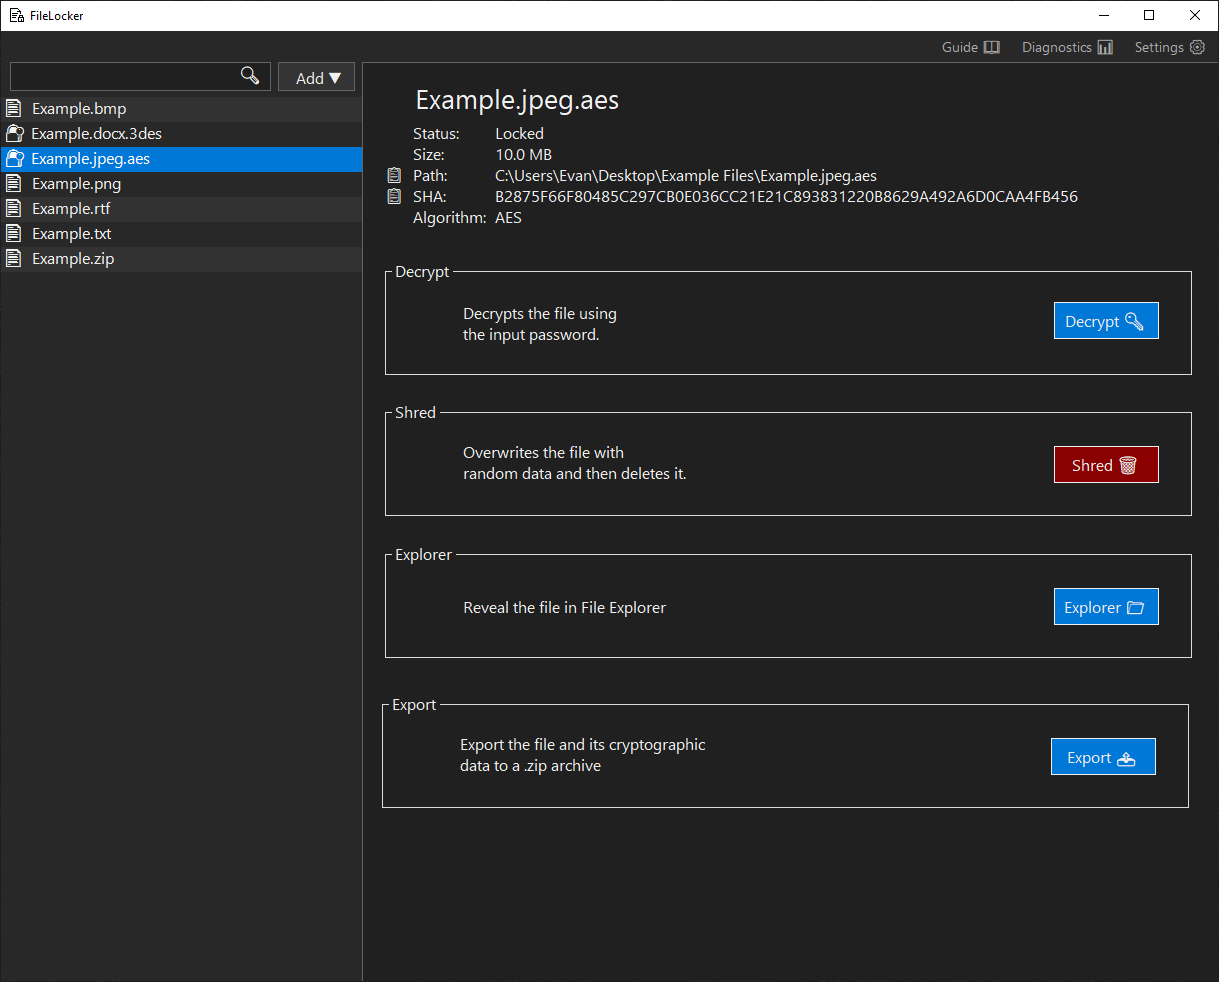
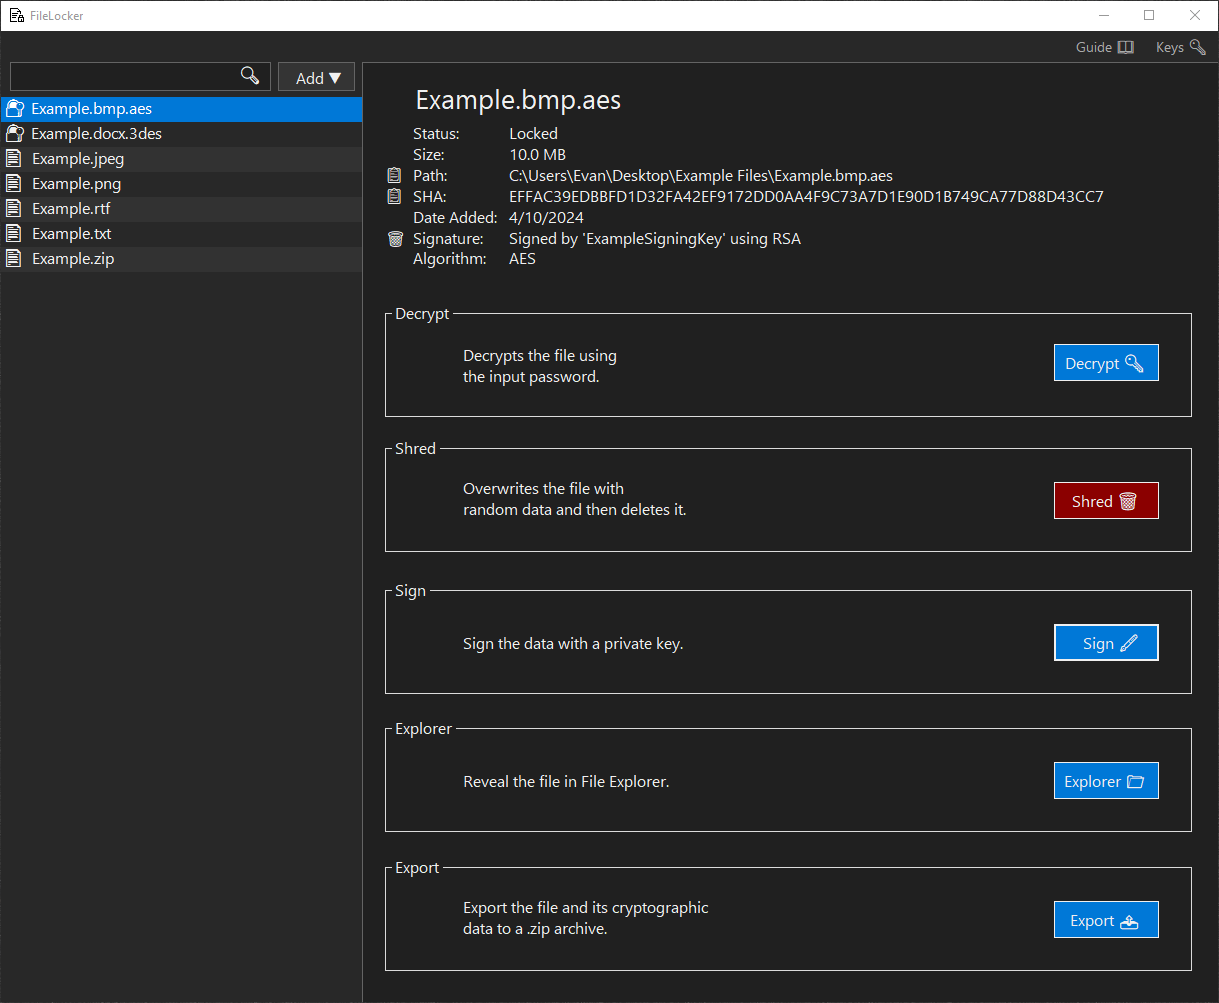
Updated README
README now includes updated images and descriptions.

diff --git a/README.md b/README.md
@@ -1,6 +1,6 @@
 # FileLocker
 
-A Windows desktop app to protect files in rest or in transit using cryptographic techniques and cybersecurity best practices.
+A Windows desktop app for cryptographically protecting files.
 
 ## Table of Contents
 
@@ -30,14 +30,14 @@ A Windows desktop app to protect files in rest or in transit using cryptographic
 The Dashboard Form also displays files within FileLocker's scope and allows addition and navigation of files.
 
 - **Guide 📖**: opens the GitHub repository in the default browser.
-- **Diagnostics 📊**: _Coming Soon_
-- **Settings ⚙**: _Coming Soon_
 - **Add ▼**: shows dropdown options to add files to the scope by manually selecting or importing an archive.
 - **File List**: right click on a file to display options or drag and drop files onto the list to add them.
 - **Search Bar**: filters files based on the search query.
 
 > [!TIP]
 > Filter by file type by searching `.txt` or `.png`, or filter by algorithm by searching `.aes` or `.3des`.
+
+<img src="./images/DashboardForm_NoFilesPanel.png" alt="Dashboard Form with Locked File Selected" width="1000">
 
 </details>
 
@@ -47,7 +47,7 @@ A locked file can be decrypted, shredded, shown in File Explorer, or exported.
 
 - **📋 Path**: copies the path to the clipboard.
 - **📋 SHA**: copies the SHA to the clipboard.
-- **Decrypt 🔑**: opens the [**Decrypt Form**](#decrypt-form).
+- **Decrypt 🔑**: opens the Decrypt Form.
 - **Shred 🗑**: shreds the file by overwriting its contents with random data and then deleting.
 - **Explorer 📁**: launches File Explorer with the file selected.
 - **Export 📤**: exports the file to a .zip archive.
@@ -62,7 +62,7 @@ An unlocked file can be encrypted, shredded, or shown in File Explorer.
 
 - **📋 Path**: copies the path to the clipboard.
 - **📋 SHA**: copies the SHA to the clipboard.
-- **Encrypt 🔐**: opens the [**Encrypt Form**](#encrypt-form).
+- **Encrypt 🔐**: opens the Encrypt Form.
 - **Shred 🗑**: shreds the file by overwriting its contents with random data and then deleting.
 - **Explorer 📁**: launches File Explorer with the file selected.
 
@@ -79,6 +79,17 @@ An moved or deleted file can be relocated or removed from scope.
 <img src="./images/DashboardForm_RelocationPanel.png" alt="Dashboard Form with Unlocked File Selected" width="1000">
 </details>
 
+<details>
+<summary><strong>Keys</strong></summary>
+Keys pairs can be created and public keys can be imported.
+
+- **Create**: opens the Create Key Pair Form.
+- **Import**: imports a selected public key archive.
+- **Key Lists**: right click on a key to display options.
+
+<img src="./images/DashboardForm_KeysPanel.png" alt="Dashboard Form with Unlocked File Selected" width="1000">
+</details>
+
 ---
 
 <details>
@@ -93,7 +104,7 @@ The Encrypt Form allows encryption by choosing an industry-standard encryption a
 - **👁**: shows or hides the password fields.
 
 > [!CAUTION]
-> If the password is lost the file cannot be decrypted. FileLocker maintains a zero-knowledge policy.
+> If the password is lost, the file cannot be decrypted. FileLocker maintains a zero-knowledge policy.
 
 </details>
 
@@ -124,6 +135,24 @@ The Import Form allows an import of a .zip archive.
 
 ---
 
+<details>
+<summary><strong>Create Key Pair Form</strong></summary>
+<img src="./images/CreateKeyPairForm.png" alt="Decrypt Form" width="400">
+
+The Create Key Pair Form allows creation of a public/private key pair.
+
+- **Generate Random**: generates a random password that satisfies the strength policy.
+- **Clear**: erases both password fields.
+- **→**: creates the key pair and encrypts the private key with the provided password.
+- **👁**: shows or hides the password fields.
+
+> [!CAUTION]
+> If the password is lost, the key cannot be used to sign. FileLocker maintains a zero-knowledge policy.
+
+</details>
+
+---
+
 ## Technologies
 
 - **OS**: Windows
@@ -132,22 +161,20 @@ The Import Form allows an import of a .zip archive.
 - **Framework**: .NET
 - **UI**: Windows Forms
 - **Version Control**: Git / GitHub
-- **Encryption Algorithm(s)**: AES, 3DES
-- **MAC Algorithm**: HMACSHA256
-- **Key Derivation Algorithm**: PBKDF2
-- **Logging Library**: Serilog
-- **Unit Testing Library**: xUnit
+- **Algorithms**: AES, 3DES, HMACSHA256, PBKDF2, RSA, ECDSA
+- **Logging**: Serilog
+- **Unit Testing**: xUnit
 
 ## Security Features
 
-- **Confidentiality**: Encrypts files with AES or 3DES.
-- **Integrity**: Generates HMACs to ensure the integrity of stored or transmitted data.
-- **Password Strength Policy**: Sets a strong password to mitigate brute-force attacks.
-- **Password Generator**: Generates a password without the need to manually type, mitigating the effect of keystroke logging malware.
-- **Password Management**: Clears password inputs after a set time if the device is left running.
-- **Password-Based Key Derivation**: Derives encryption keys from passwords.
-- **Logging**: Logs important events such as encryption and decryption with Serilog.
-- **Constant-Time Comparison**: Uses libraries with constant-time comparison to mitigate timing attacks.
-- **File Shredder**: Deletes files without leaving traces by overwriting with random data.
-- **Customization**: Allows selection of different encryption algorithms.
-- **SOLID Principles**: Follows SOLID principles to facilitate quick code updates in the case of a new exploit.
+- **Confidentiality**: AES and 3DES encryption.
+- **Integrity**: HMAC integrity checks of stored and transmitted data.
+- **Password Strength Policy**: strong passwords mitigate brute-force attacks.
+- **Password Generator**: passwords generated without the need to manually type, mitigating the effect of keystroke logging malware.
+- **Password Management**: password inputs cleared after a set time if the device is left running.
+- **Password-Based Key Derivation**: encryption keys derived from passwords.
+- **Logging**: important events logged such as encryption and decryption.
+- **Constant-Time Comparison**: libraries use constant-time comparison to mitigate timing attacks.
+- **File Shredder**: files deleted without leaving traces by overwriting with random data.
+- **Customization**: selection of different algorithms.
+- **SOLID Principles**: facilitate quick code updates in the case of a new exploit.
